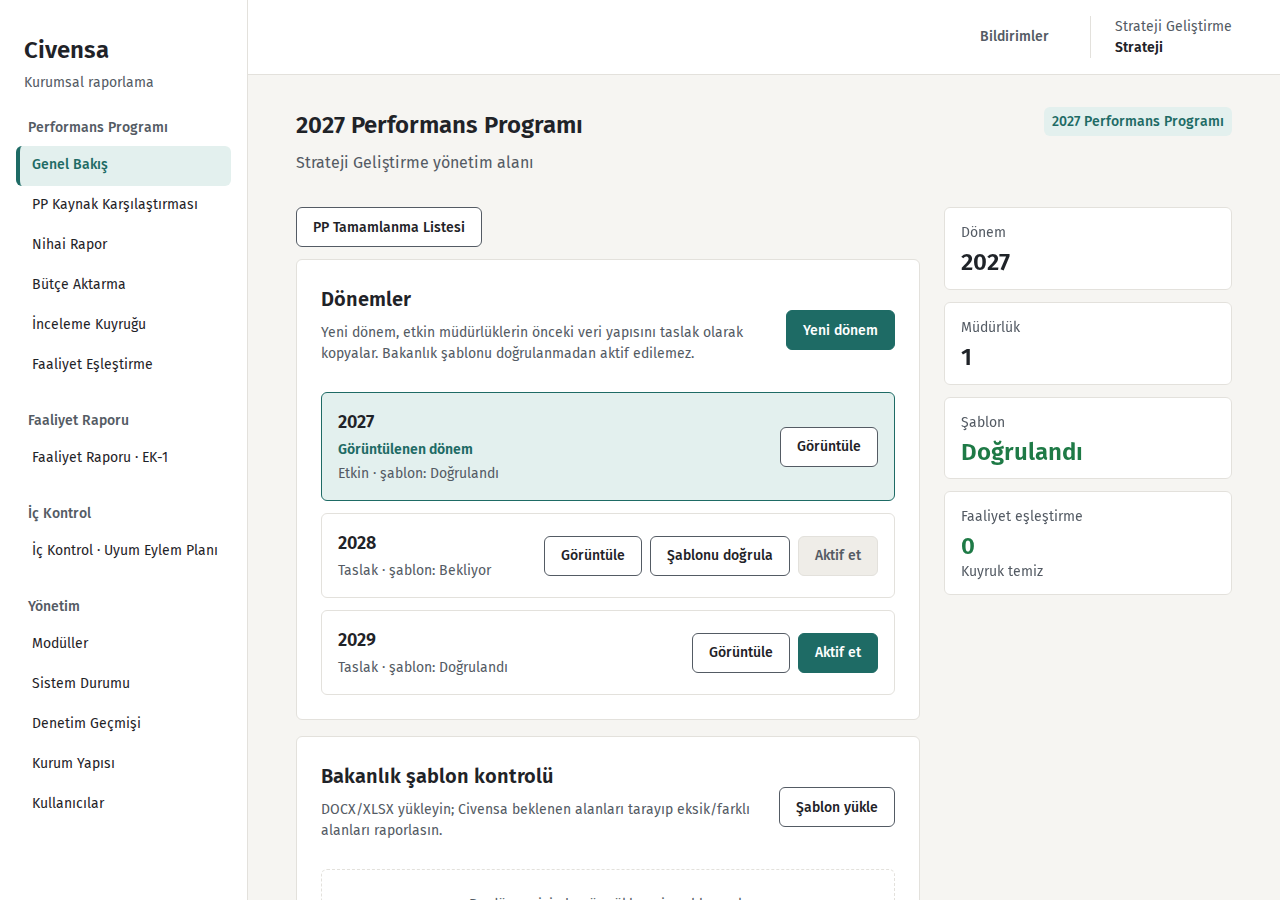
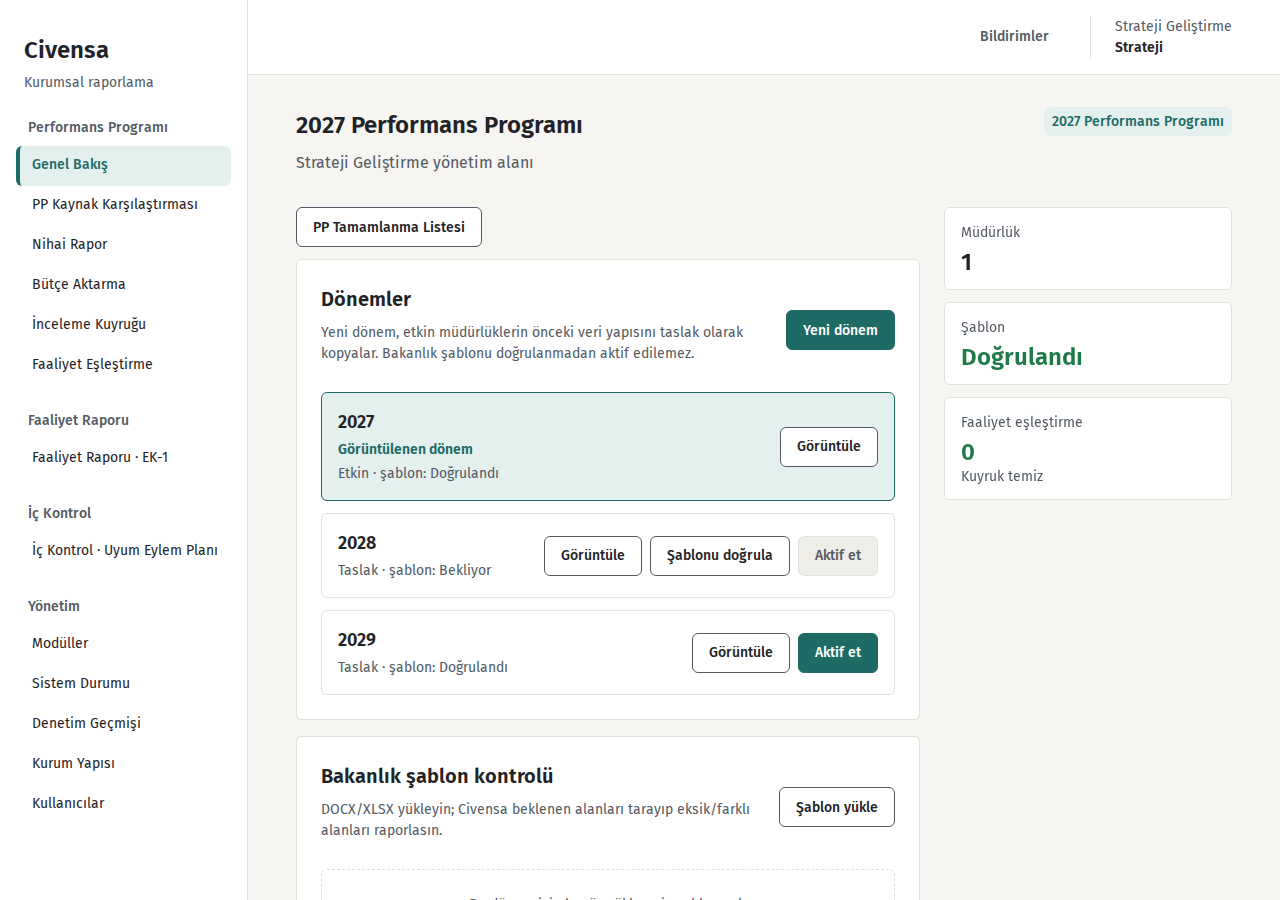
Remove redundant strategy period card

Changed region(s): [[0.75, 0.4667, 0.9375, 0.6533], [0.75, 0.3422, 0.8438, 0.4044], [0.75, 0.2489, 0.8125, 0.3111]]

diff --git a/app/templates/dashboard.html b/app/templates/dashboard.html
@@ -25,10 +25,6 @@
         {% else %}
           <div class="cards strategy-cards">
             <div class="card">
-              <span>Dönem</span>
-              <b>{{ period.year }}</b>
-            </div>
-            <div class="card">
               <span>Müdürlük</span>
               <b>{{ departments|length }}</b>
             </div>

diff --git a/tests/test_dashboard_design.py b/tests/test_dashboard_design.py
@@ -106,6 +106,7 @@ def test_021_022_frozen_forms_links_hooks_and_role_visibility(dashboard_client, 
     assert ('id="newPeriodBtn"' in html) == (role == 'strategy')
     assert ('Veri girişini aç' in html) == (role == 'department')
     if role == 'strategy':
+        assert '<span>Dönem</span>' not in html
         controls = Contract(html).controls
         activate = [dict(attrs) for tag, attrs in controls if tag == 'button' and dict(attrs).get('data-id') == '9002'][-1]
         assert ('disabled' in activate) == (not verified)
@@ -155,6 +156,9 @@ def test_021_022_browser_layout_contrast_and_period_actions(browser, dashboard_c
             return sorted(map(len, rows.values()))
 
         if width >= 1280:
+            if role == 'strategy':
+                assert top_cards.count() == 3
+            assert len({round(card.bounding_box()['y']) for card in top_cards.all()}) == 3
             for card in top_cards.all():
                 limit = 108 if role == 'strategy' and card.evaluate("el => el.matches('.action-card')") else 88
                 assert card.bounding_box()['height'] <= limit, (
@@ -171,13 +175,11 @@ def test_021_022_browser_layout_contrast_and_period_actions(browser, dashboard_c
                 assert summary.bounding_box()['x'] >= main.bounding_box()['x'] + main.bounding_box()['width']
                 assert abs(summary.bounding_box()['y'] - main.bounding_box()['y']) <= 8
                 assert len({round(card.bounding_box()['x']) for card in top_cards.all()}) == 1
-                assert len({round(card.bounding_box()['y']) for card in top_cards.all()}) == (
-                    4 if role == 'strategy' else 3)
                 first_panel = root.locator('.dashboard-main > .dashboard-panel').first
                 title_bottom = page.locator('.page-header').bounding_box()['y'] + page.locator('.page-header').bounding_box()['height']
                 assert first_panel.bounding_box()['y'] - title_bottom <= 120
         else:
-            assert row_sizes(top_cards) == ([2, 2] if role == 'strategy' else [1, 2])
+            assert row_sizes(top_cards) == [1, 2]
             if role == 'strategy':
                 assert row_sizes(root.locator('.dashboard-panel .cards > *')) == [1, 2, 2]
         assert root.locator('.card').evaluate_all('els => els.every(el => el.scrollWidth <= el.clientWidth)')
@@ -188,8 +190,6 @@ def test_021_022_browser_layout_contrast_and_period_actions(browser, dashboard_c
                 control.hover(); control.focus()
                 pairs.update(map(tuple, page.evaluate(pairs_script)))
         if role == 'strategy':
-            if width == 1440:
-                assert len({round(el.bounding_box()['y']) for el in top_cards.all()}) == 4
             expect(page.locator('#newPeriodForm')).to_be_hidden()
             page.locator('#newPeriodBtn').click()
             expect(page.locator('#newPeriodForm')).to_be_visible()

diff --git a/docs/design/rollout/civ-106/README.md b/docs/design/rollout/civ-106/README.md
@@ -2,6 +2,8 @@
 
 Chromium 151 ile sentetik test verileri kullanılarak 1440×900, 1280×900 ve 390×900 ekranlarda alınmıştır. İlerleme görselleri yalnız beş kartı gösterir.
 
+Metin değişikliği: Dönem kartı kaldırıldı (sahip isteği; yıl başlıkta ve seçili dönem satırında gösteriliyor).
+
 | Görünüm | 1440 px | 1280 px | 390 px |
 | --- | --- | --- | --- |
 | 022 müdürlük üst alanı | [PNG](022-department-1440.png) | — | [PNG](022-department-390.png) |
